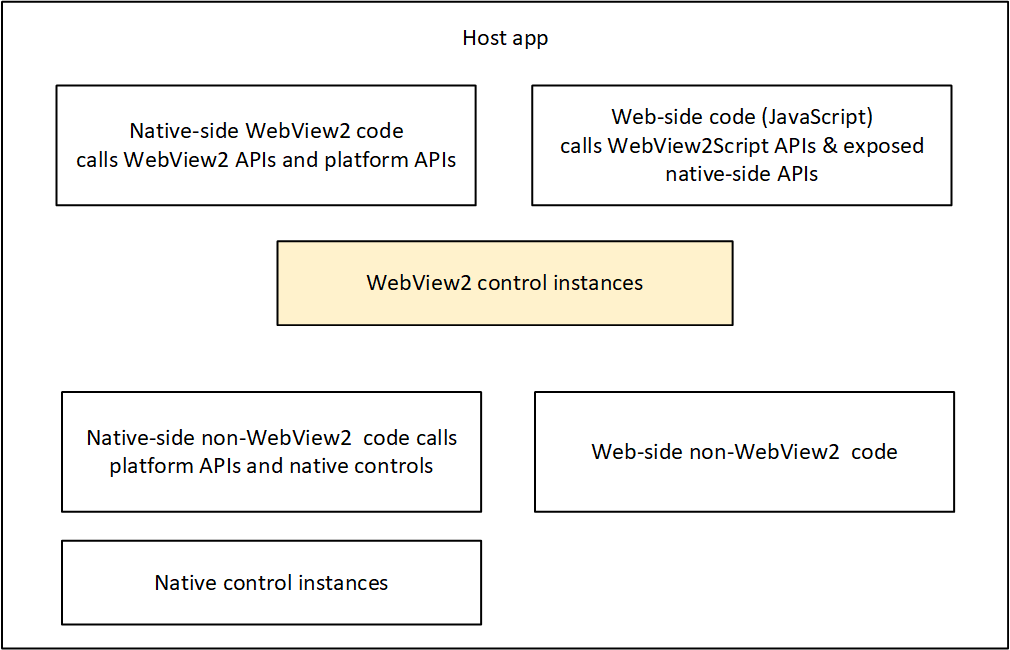
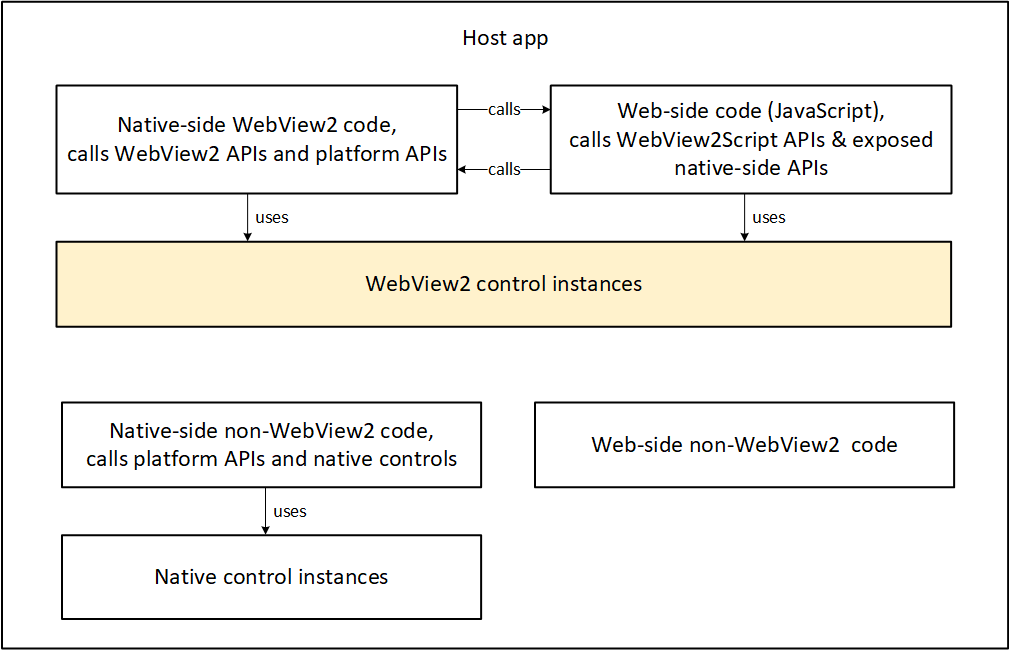
control-runtime-sdk.png

diff --git a/microsoft-edge/webview2/index.md b/microsoft-edge/webview2/index.md
@@ -129,50 +129,27 @@ Runtime:
 ![WebView2 control, Runtime, and SDK](./index-images/control-runtime-sdk.png)
 
 
-###### Draft 2
-
 This diagram shows the following outline:
 
-<!-- todo: revise diagram as follows: -->
-
-Release SDK, includes:
-* .NET/C# APIs (are these on the Control?  on the Runtime?)
+Release SDK:
+* .NET/C# APIs
 * WinRT/C#
 * Win32/C++
+* WebView2Script package (JavaScript APIs)
 
-Prerelease SDK, includes:
-* .NET/C# APIs including experimental APIs (are these on the Control?  on the Runtime?)
-* WinRT/C#  APIs including experimental APIs
-* Win32/C++ APIs including experimental APIs
+Prerelease SDK:
+* .NET/C# APIs, including experimental APIs
+* WinRT/C#  APIs, including experimental APIs
+* Win32/C++ APIs, including experimental APIs
+* WebView2Script package (JavaScript APIs)
 
 Runtime (for release) or Browser (for Prerelease)
-* WebView2Script package (JavaScript APIs for WebView2)
+* WebView2Script package (JavaScript APIs)
 
 
-###### Draft 1
+Runtime (for Release SDK) - WebView2Script package (JavaScript APIs)
+Browser (for Prerelease SDK) - WebView2Script package (JavaScript APIs)
 
-This diagram has the following top-level items:
-* Control
-* Runtime
-* SDK
-
-Control:
-*  WebView2 control - eg. add as an XML element
-
-Runtime:
-*  WebView2 Runtime (a browser used as a component) - Required; runs the WebView2 control
-*  WebView2 Runtime - runs the WebView2 control
-*  Evergreen Runtime, or Fixed-version Runtime (a browser used as a component of an app)
-*  Evergreen Runtime, or Fixed-version Runtime
-    
-WebView2 SDK
-*  Supported platforms: .NET, WinRT, Win32
-*  Preview channel of Microsoft Edge
-
-APIs
-*  Release SDK (to ship)
-*  Prerelease SDK with experimental APIs (to test locally)
-*  JavaScript API (to support communication between web-side code & the host application)
 
 You periodically download the latest SDK from NuGet.  NuGet links are in [Release Notes for the WebView2 SDK](./release-notes.md).
 
@@ -197,17 +174,15 @@ A host app contains the following categories of code and components:
 
 ![Design architecture of a WebView2 app](./index-images/app-design.png)
 
-<!-- todo: diagram -->
+Categories of code:
+*  Native-side WebView2 code, calls WebView2 APIs and platform APIs.
+*  Web-side code (JavaScript), calls WebView2Script APIs & exposed native-side APIs.
+*  Native-side non-WebView2 code, calls platform APIs and native controls.
+*  Web-side non-WebView2 code.
+
 Two-way code:
 *  Call web-side code from native-side code
 *  Call native-side code from web-side code
-
-<!-- todo: diagram -->
-Categories of code:
-*  Native-side app code that isn't WebView2-related.
-*  Native-side app code that's WebView2-related.
-*  Web-side code that isn't WebView2-related.
-*  Web-side code that's WebView2-related.
 
 
 <!-- ====================================================================== -->
